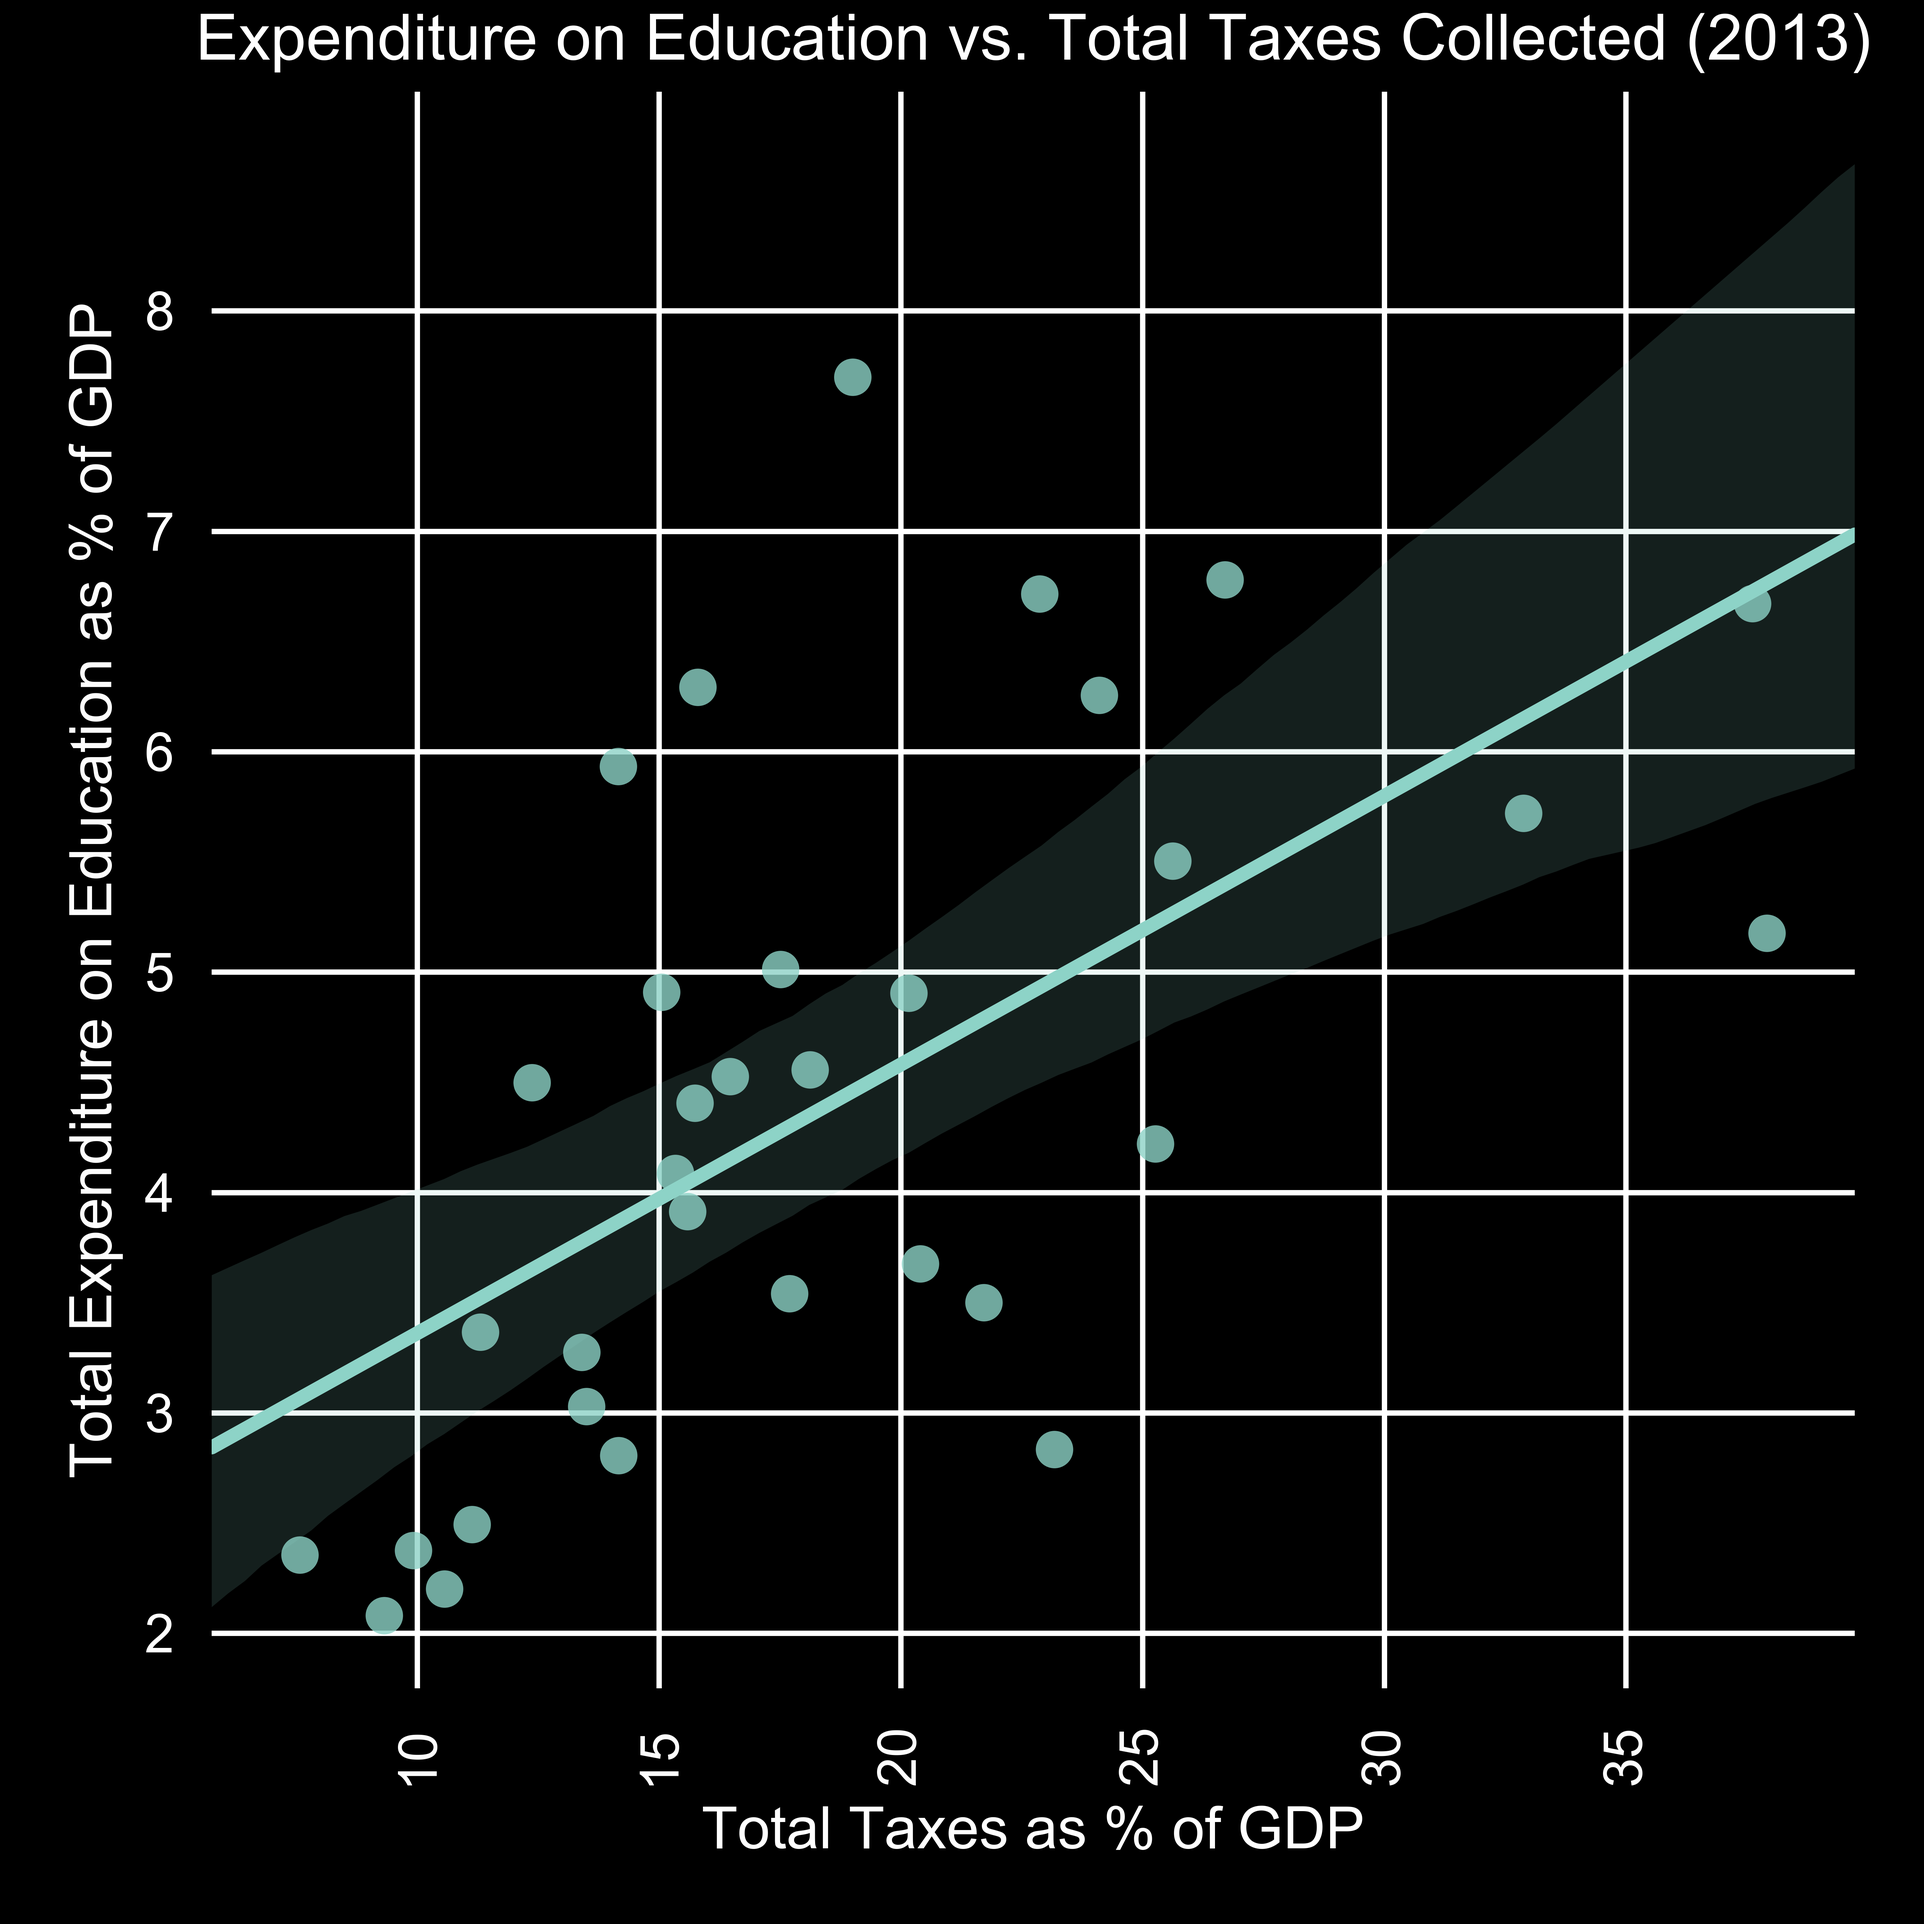
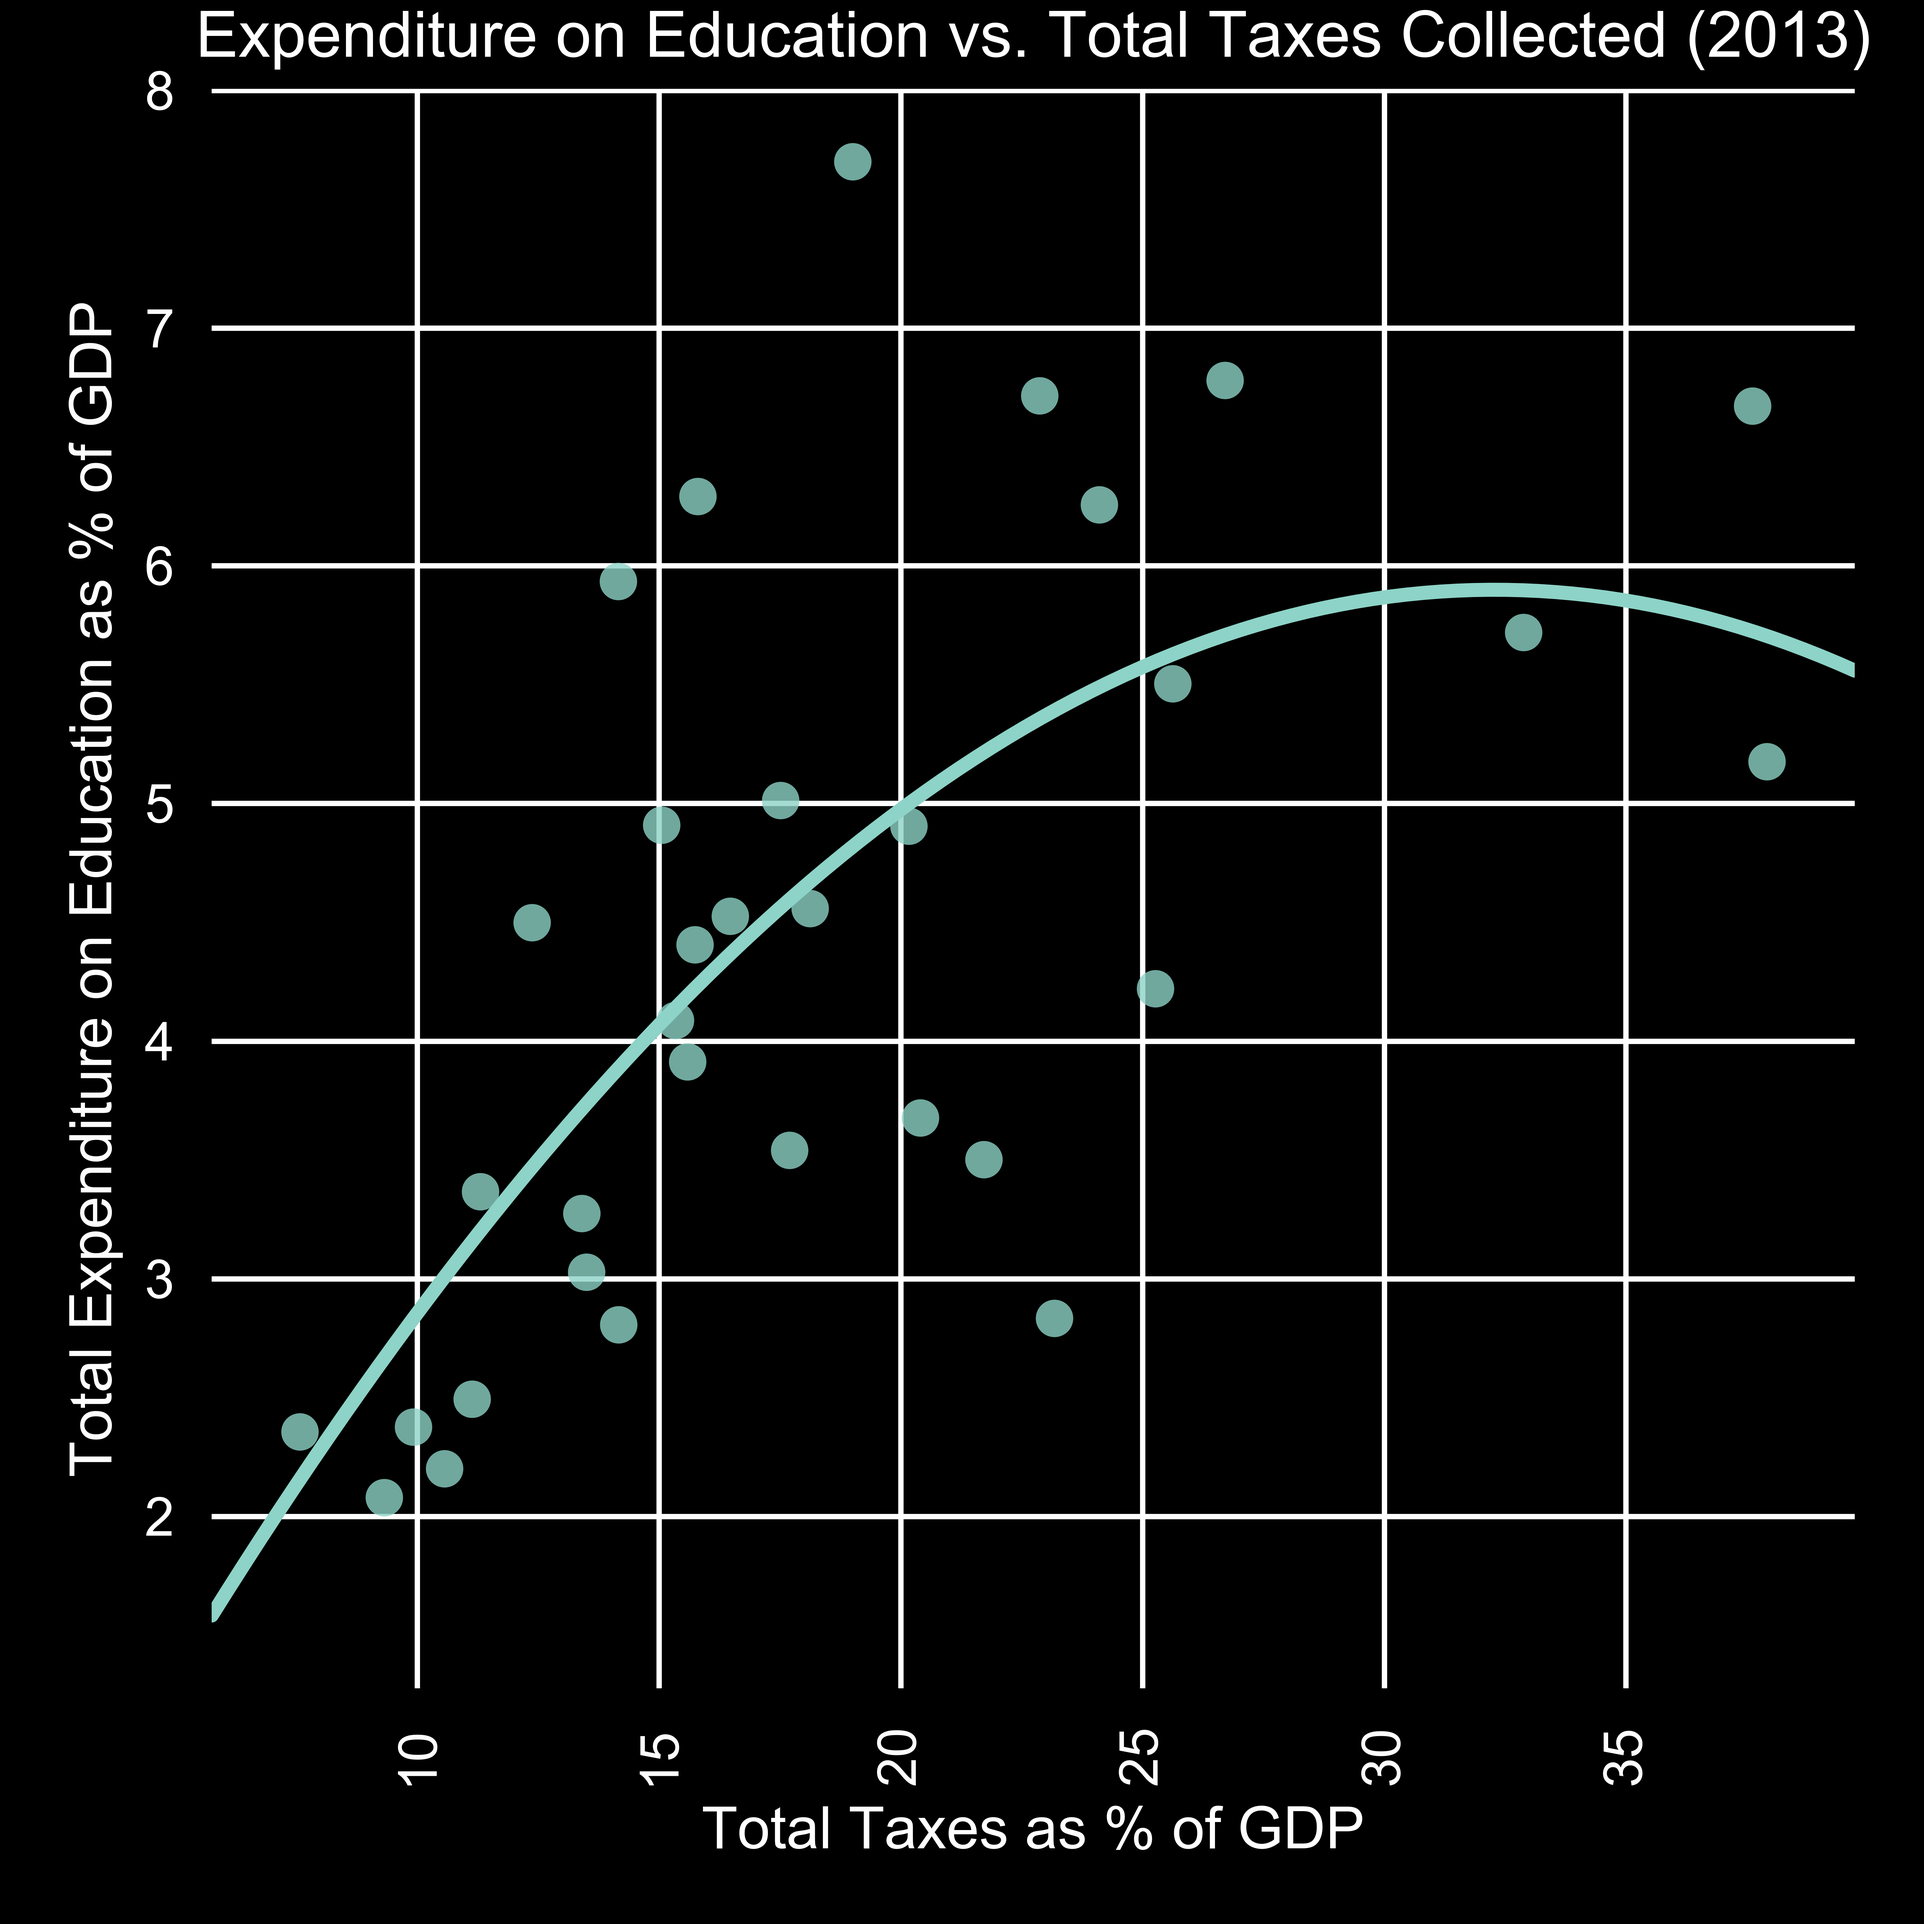
order 2 line of best fit

diff --git a/week8/ed-tax.py b/week8/ed-tax.py
@@ -1,7 +1,6 @@
 # data from http://uwflow.com
 
 import pandas as pd
-import numpy as np
 import matplotlib.pyplot as plt
 import seaborn as sns
 plt.style.use('dark_background')
@@ -19,7 +18,9 @@ edu = edu[['Entity', 'Total Government Expenditure on Education']]
 # merging table into one data set
 data = pd.merge(tax, edu, on='Entity')
 
-sns.lmplot(data=data, x='Total Taxes', y='Total Government Expenditure on Education')
+sns.lmplot(data=data, x='Total Taxes',
+           y='Total Government Expenditure on Education',
+           order=2, ci=None)
 plt.xlabel('Total Taxes as % of GDP')
 plt.ylabel('Total Expenditure on Education as % of GDP')
 plt.title('Expenditure on Education vs. Total Taxes Collected (2013)')
